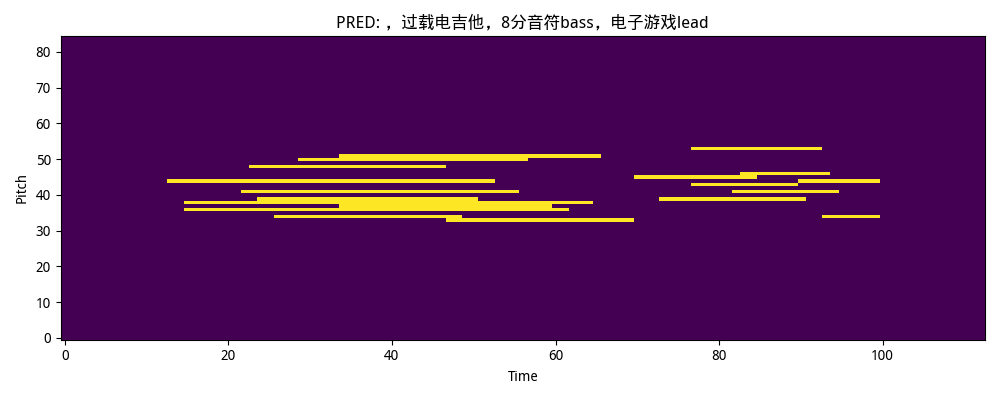
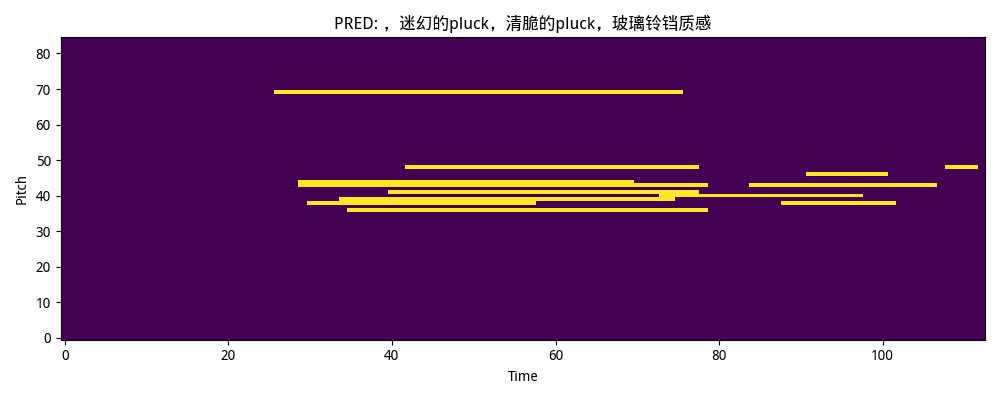
unset exist cost to prevent mode collapse

diff --git a/train4.py b/train4.py
@@ -54,7 +54,7 @@ model = ALUnion().to(device)
 
 teacher = Teacher()
 
-checkpoint_path = "/home/vipuser/wby/proj_params/params/al/ckpt_epoch_40.pt"
+checkpoint_path = "/home/vipuser/wby/proj_params/params/al/ckpt_epoch_90.pt"
 state_dict = torch.load(checkpoint_path)
 model.load_state_dict(state_dict=state_dict)
 

diff --git a/configs/config.py b/configs/config.py
@@ -182,9 +182,9 @@ def get_config():
         "pitch": 1,
         "exist": 1,
         "text": 1,
-        "text_exist": 1,
+        "text_exist": 0, # 这个是0，否则会坍缩
         "te_text": 1,
-        "te_event": 1,
+        "te_event": 0,
     }
     
     cfg.sustain_ref = 0.1
